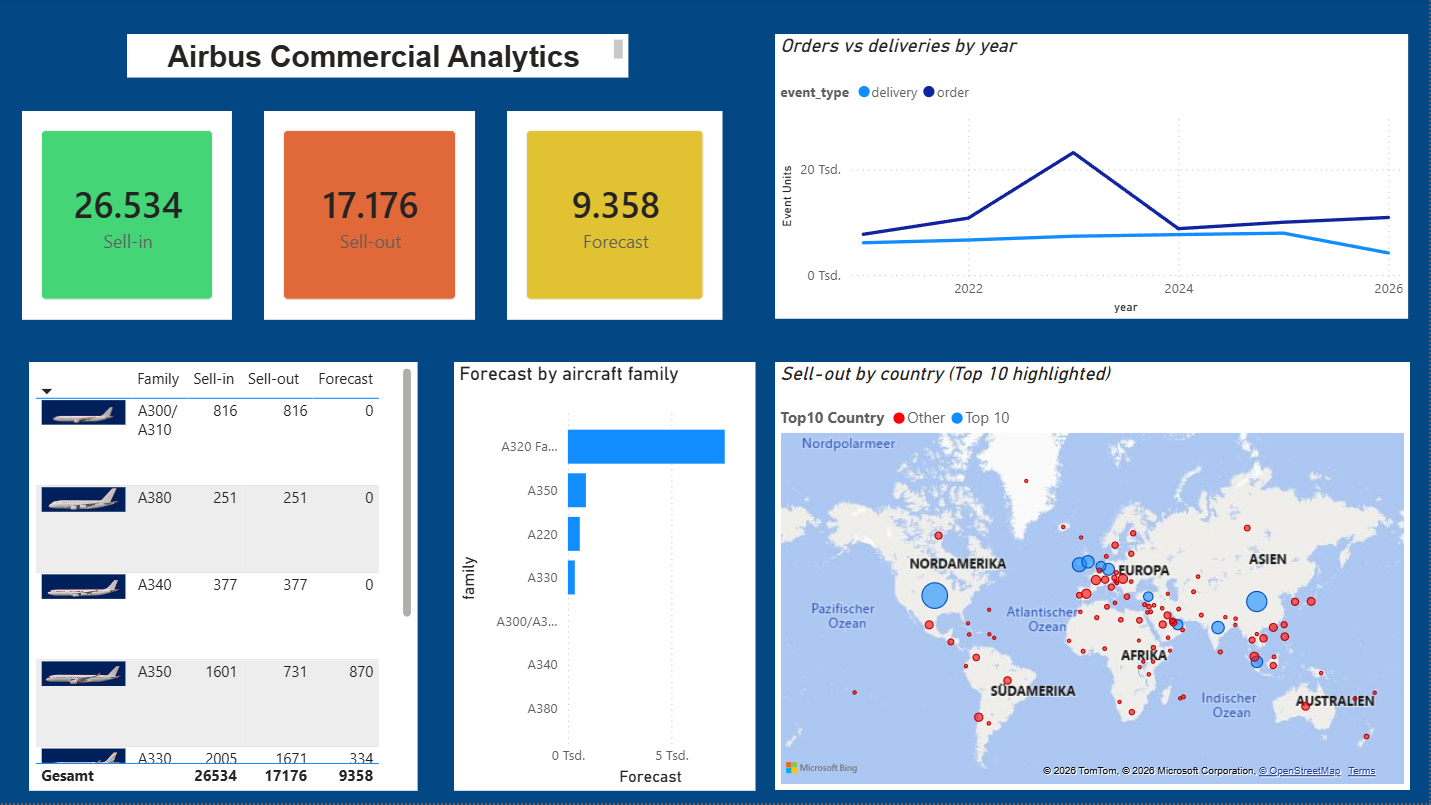
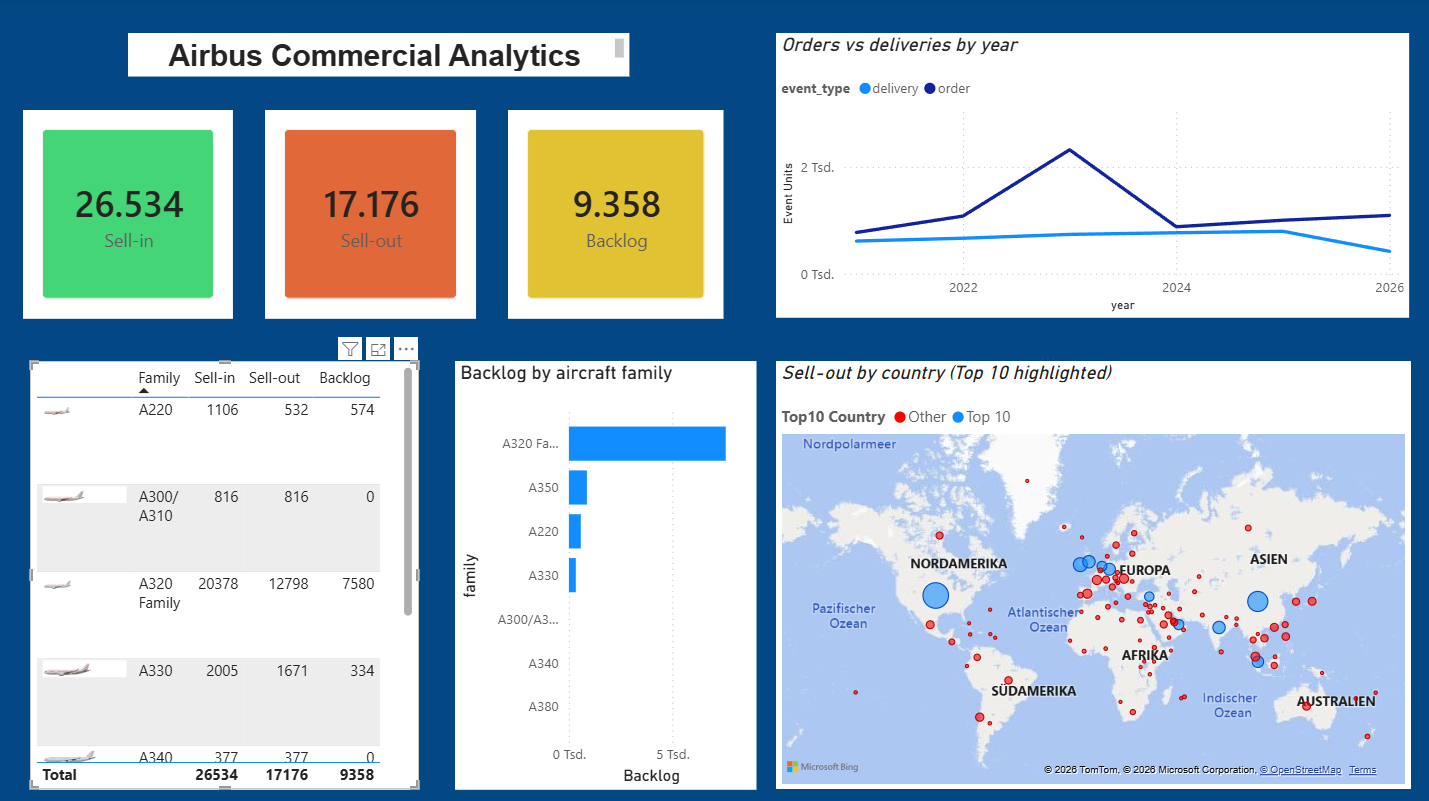
Update dashboard screenshot and rename Forecast to Backlog.

diff --git a/README.md b/README.md
@@ -3,7 +3,7 @@
 Datengrundlage: öffentliche Airbus-Monatsreports **Orders & Deliveries**.
 Januar 2021 bis Juli 2026, 67 Excel-Dateien von der [Airbus-Seite](https://www.airbus.com/en/products-services/commercial-aircraft/orders-and-deliveries).
 
-Daraus ein Power-BI-Dashboard. Python bereinigt die Dateien, SQL rechnet die KPIs, Power BI zeigt Sell-in, Sell-out und Forecast nach Flugzeugfamilie und Land.
+Daraus ein Power-BI-Dashboard. Python bereinigt die Dateien, SQL rechnet die KPIs, Power BI zeigt Sell-in, Sell-out und Backlog nach Flugzeugfamilie und Land.
 
 ![Airbus Commercial Analytics](dashboards/airbus-commercial-analytics.png)
 
@@ -11,9 +11,11 @@ Daraus ein Power-BI-Dashboard. Python bereinigt die Dateien, SQL rechnet die KPI
 
 Im Dashboard die Sprache vom Business, in den Quelldateien die Airbus-Begriffe:
 
-- **Sell-in 26.534** = Orders, also Auftragseingang über die Laufzeit
+Gesamtstand Juli 2026 seit Programmstart:
+
+- **Sell-in 26.534** = Orders, also Auftragseingang
 - **Sell-out 17.176** = Deliveries, also ausgelieferte Flugzeuge
-- **Forecast 9.358** = der Restbestand (Orders minus Deliveries), bei Airbus Backlog genannt
+- **Backlog 9.358** = Auftragsbestand (Orders minus Deliveries), bestellt und noch nicht ausgeliefert
 
 A320 Family hat den größten offenen Bestand. A340, A380 und A300/A310 sind durch (Sell-in = Sell-out).
 
@@ -38,5 +40,5 @@ Die fertigen CSVs sind im Repo. Python muss man nur neu laufen lassen, wenn eine
 ## Technik
 
 - **Python / pandas:** Dateien finden, Typen vereinheitlichen, wide → long
-- **SQL:** Sell-in, Sell-out, Forecast, Top-Kunden, Jahr zu Jahr
+- **SQL:** Sell-in, Sell-out, Backlog, Top-Kunden, Jahr zu Jahr
 - **Power BI:** Sternschema (Fact + Dimensionen), DAX, Karte, Zeitreihe

diff --git a/dashboards/POWER_BI_SETUP.md b/dashboards/POWER_BI_SETUP.md
@@ -8,7 +8,7 @@ python 01_python_data_cleaning.py
 
 Danach in Power BI Desktop nur Dateien aus `data/processed/` laden, nicht die Original-Excels.
 
-Stand Juli 2026 zum Gegenprüfen: Sell-in 26.534 | Sell-out 17.176 | Forecast 9.358
+Stand Juli 2026 zum Gegenprüfen: Sell-in 26.534 | Sell-out 17.176 | Backlog 9.358
 
 ## 1. Dateien laden
 
@@ -57,7 +57,7 @@ CALCULATE(
     fact_fleet_snapshot[metric] = "Del"
 )
 
-Forecast =
+Backlog =
 [Sell-in] - [Sell-out]
 
 Event Units =
@@ -68,9 +68,9 @@ SUM(fact_orders_deliveries[units])
 
 So wie im Screenshot:
 
-- drei Kacheln: Sell-in, Sell-out, Forecast
-- Tabelle: Familie mit Sell-in / Sell-out / Forecast
-- Balken: Forecast nach Familie
+- drei Kacheln: Sell-in, Sell-out, Backlog
+- Tabelle: Familie mit Sell-in / Sell-out / Backlog
+- Balken: Backlog nach Familie
 - Linie: Orders vs Deliveries nach Jahr (`event_type`)
 - Karte: Sell-out nach Land
 
